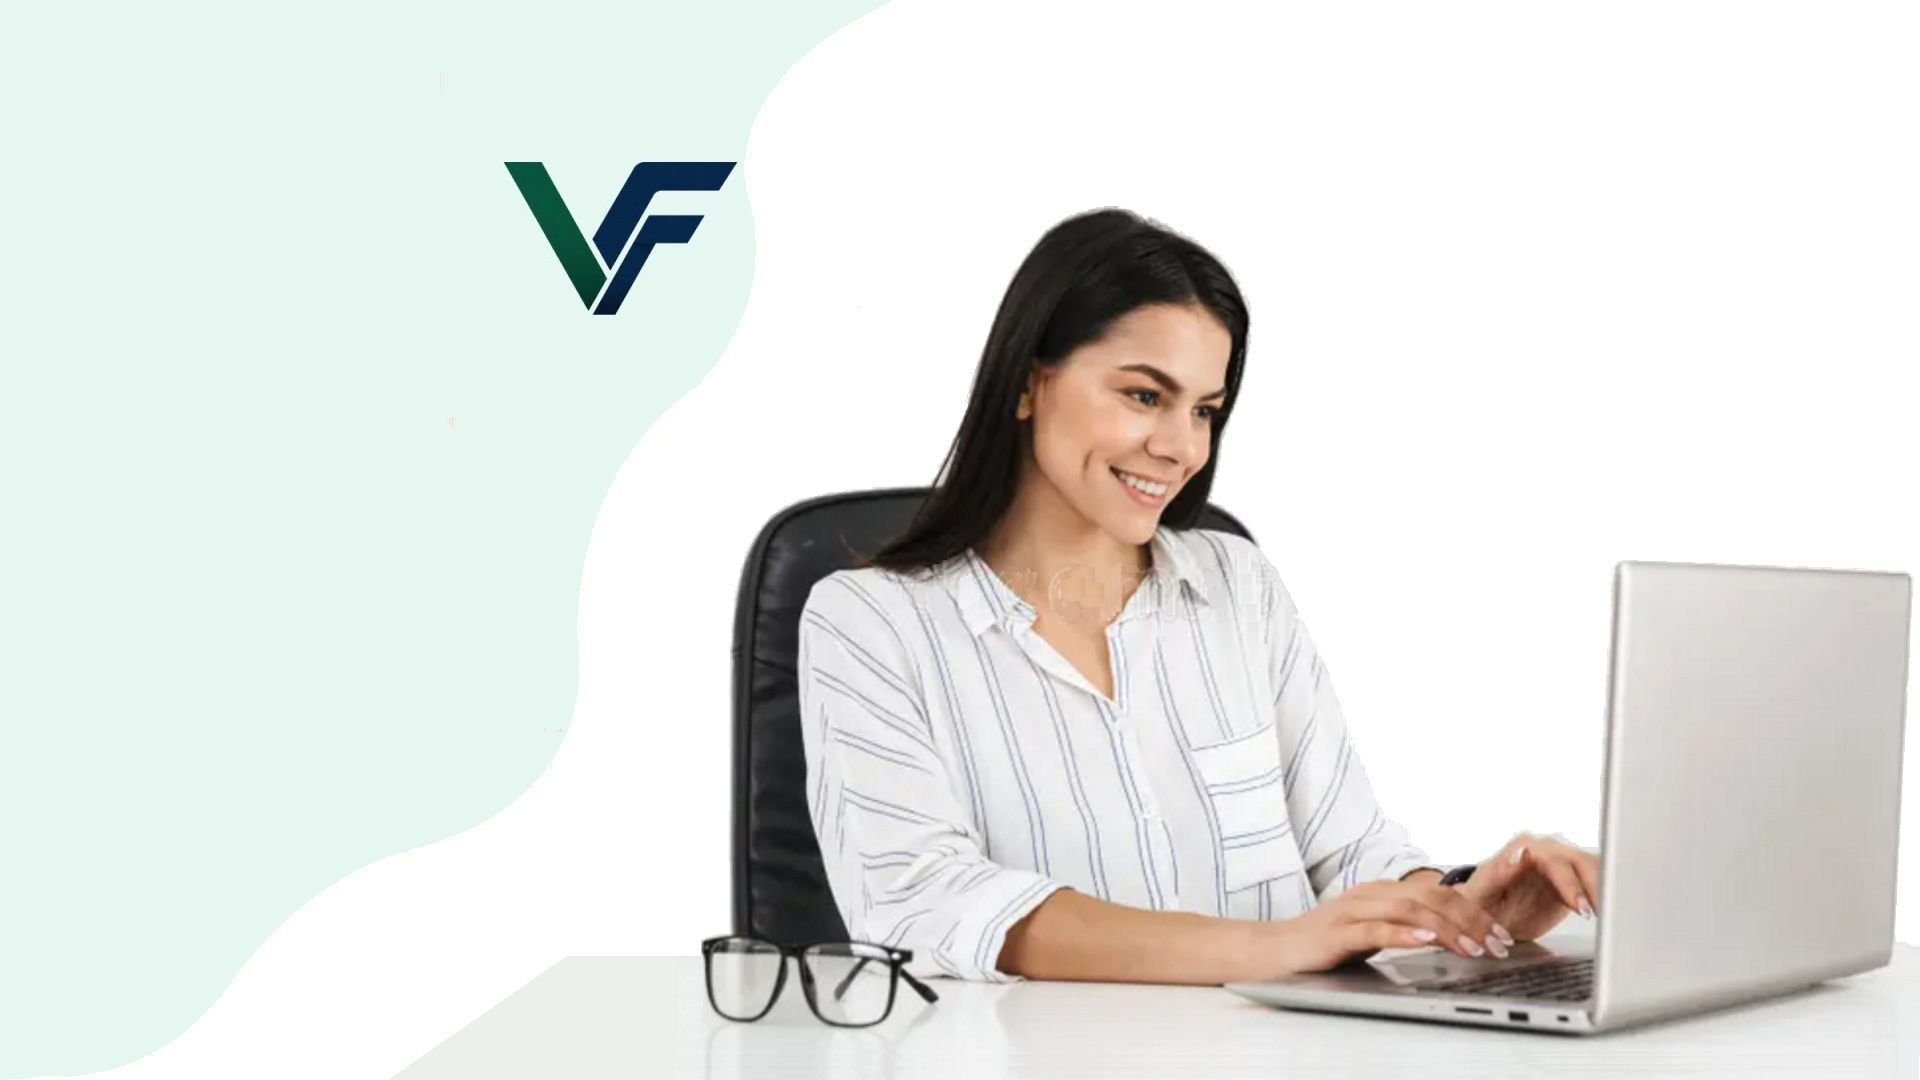
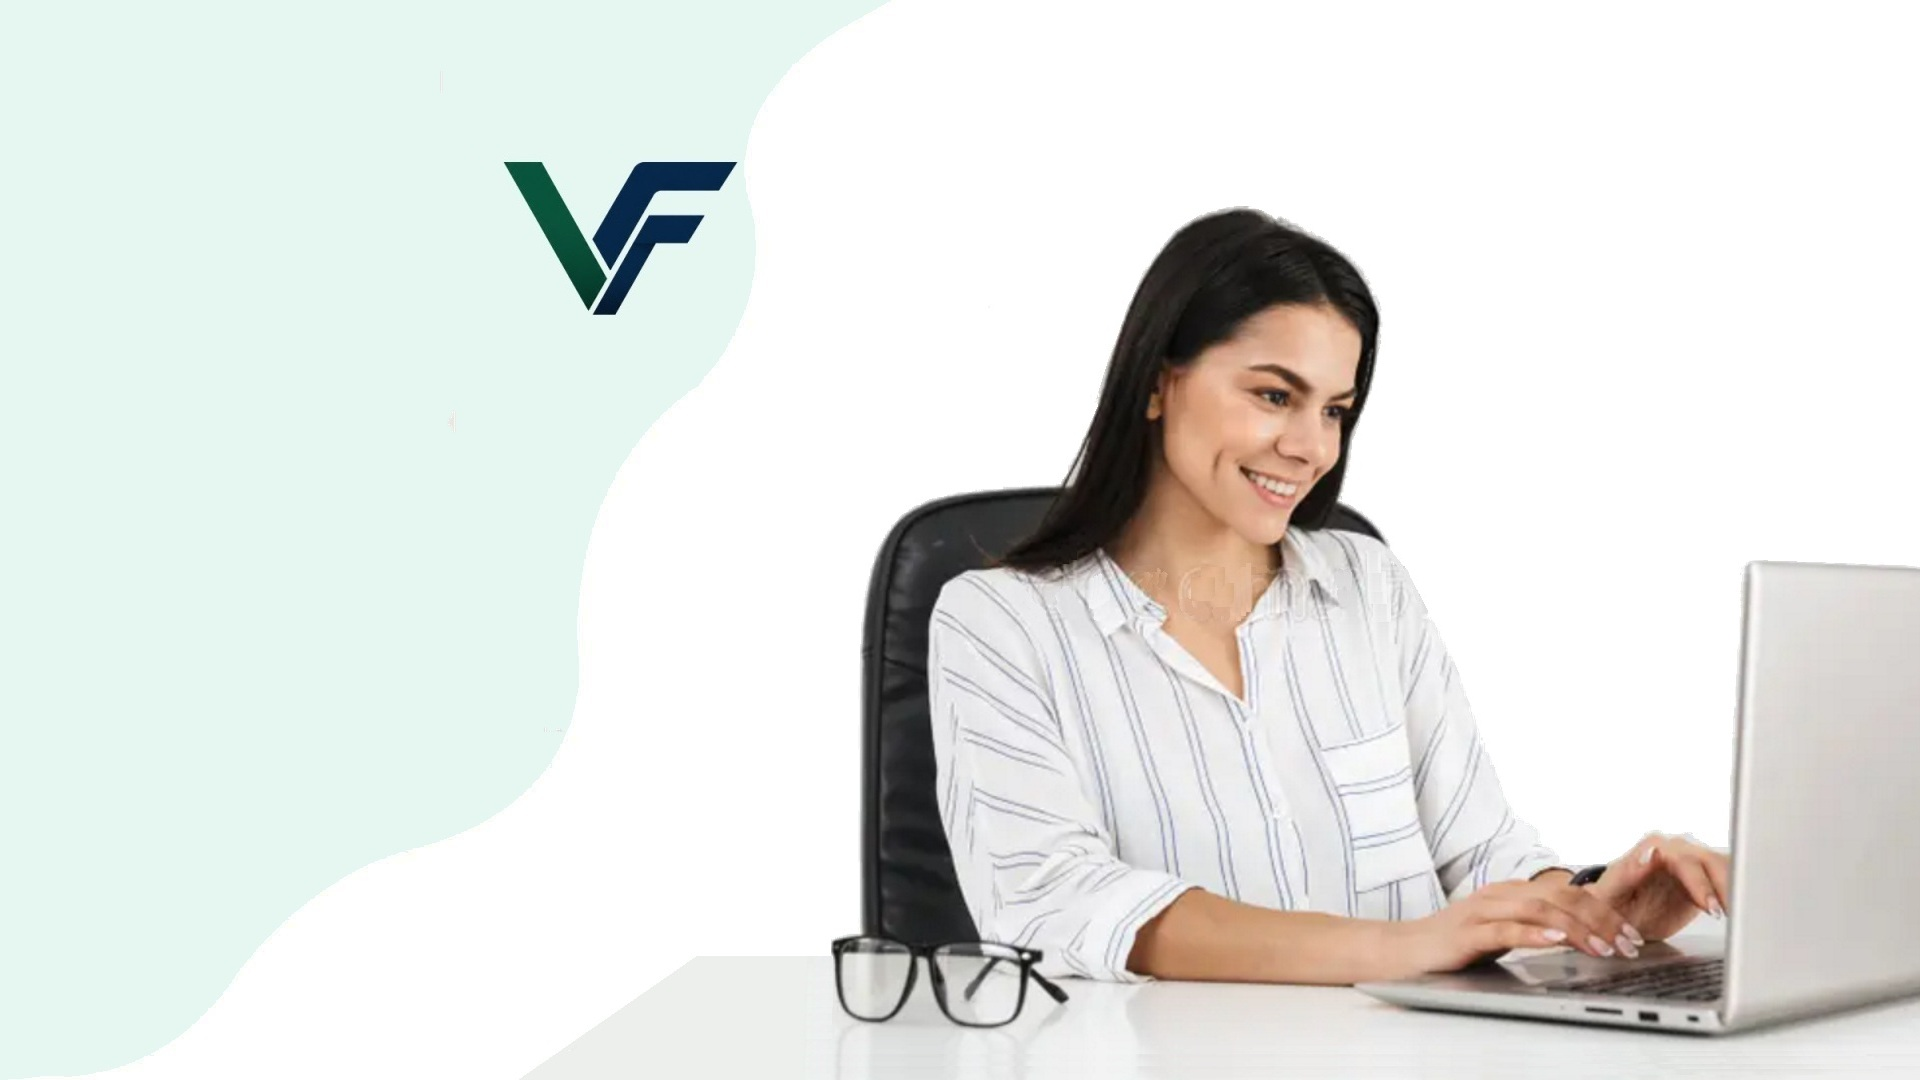
update 4

Changed region(s): [[0.3438, 0.1833, 1.0, 0.9778]]

diff --git a/index.html b/index.html
@@ -111,7 +111,7 @@
                         <div class="container">
                             <div class="row justify-content-start">
                                 <div class="col-lg-8">
-                                    <h1 class="display-1 mb-4 animated slideInDown" style="-webkit-text-stroke: 1px white; color: #011A41; font-family: sans-serif;">
+                                    <h1 class="display-1 mb-4 animated slideInDown">
 									    Vaš smjer</br>
 									    naš pravac
                                     </h1>
@@ -126,7 +126,7 @@
                         <div class="container">
                             <div class="row justify-content-start">
                                 <div class="col-lg-7">
-								   <h1 class="display-1 mb-4 animated slideInDown" style="-webkit-text-stroke: 1px white; color: #011A41; font-family: sans-serif;">
+								   <h1 class="display-1 mb-4 animated slideInDown">
 									   Prava podrška</br>
 									   finansijama
                                   </h1>
